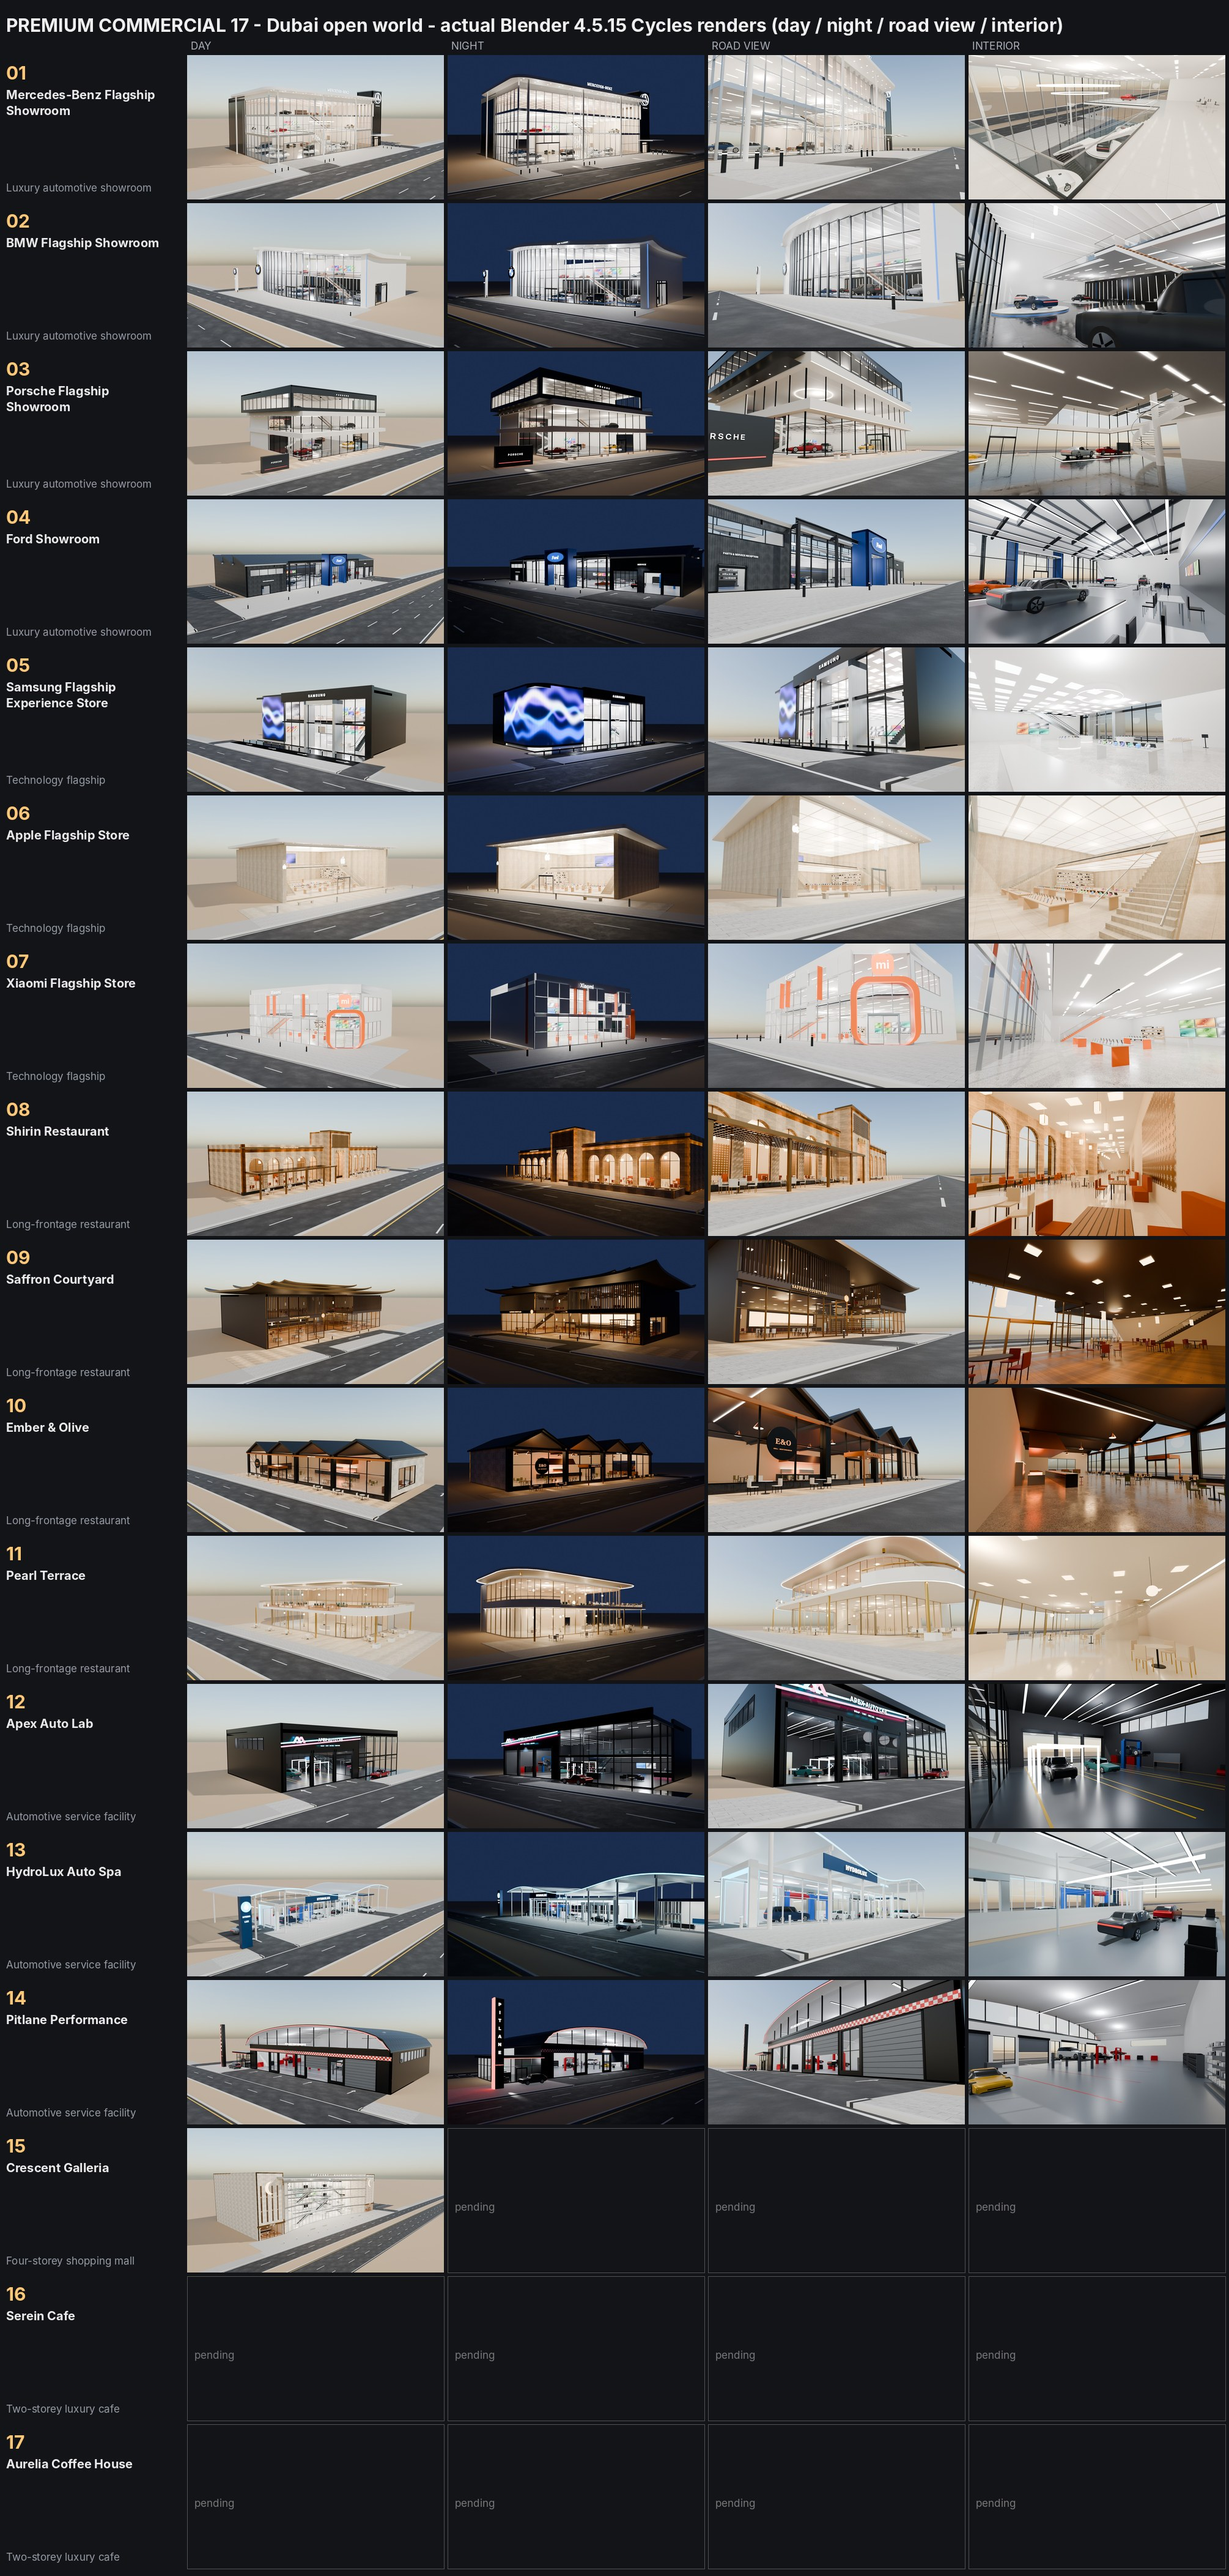
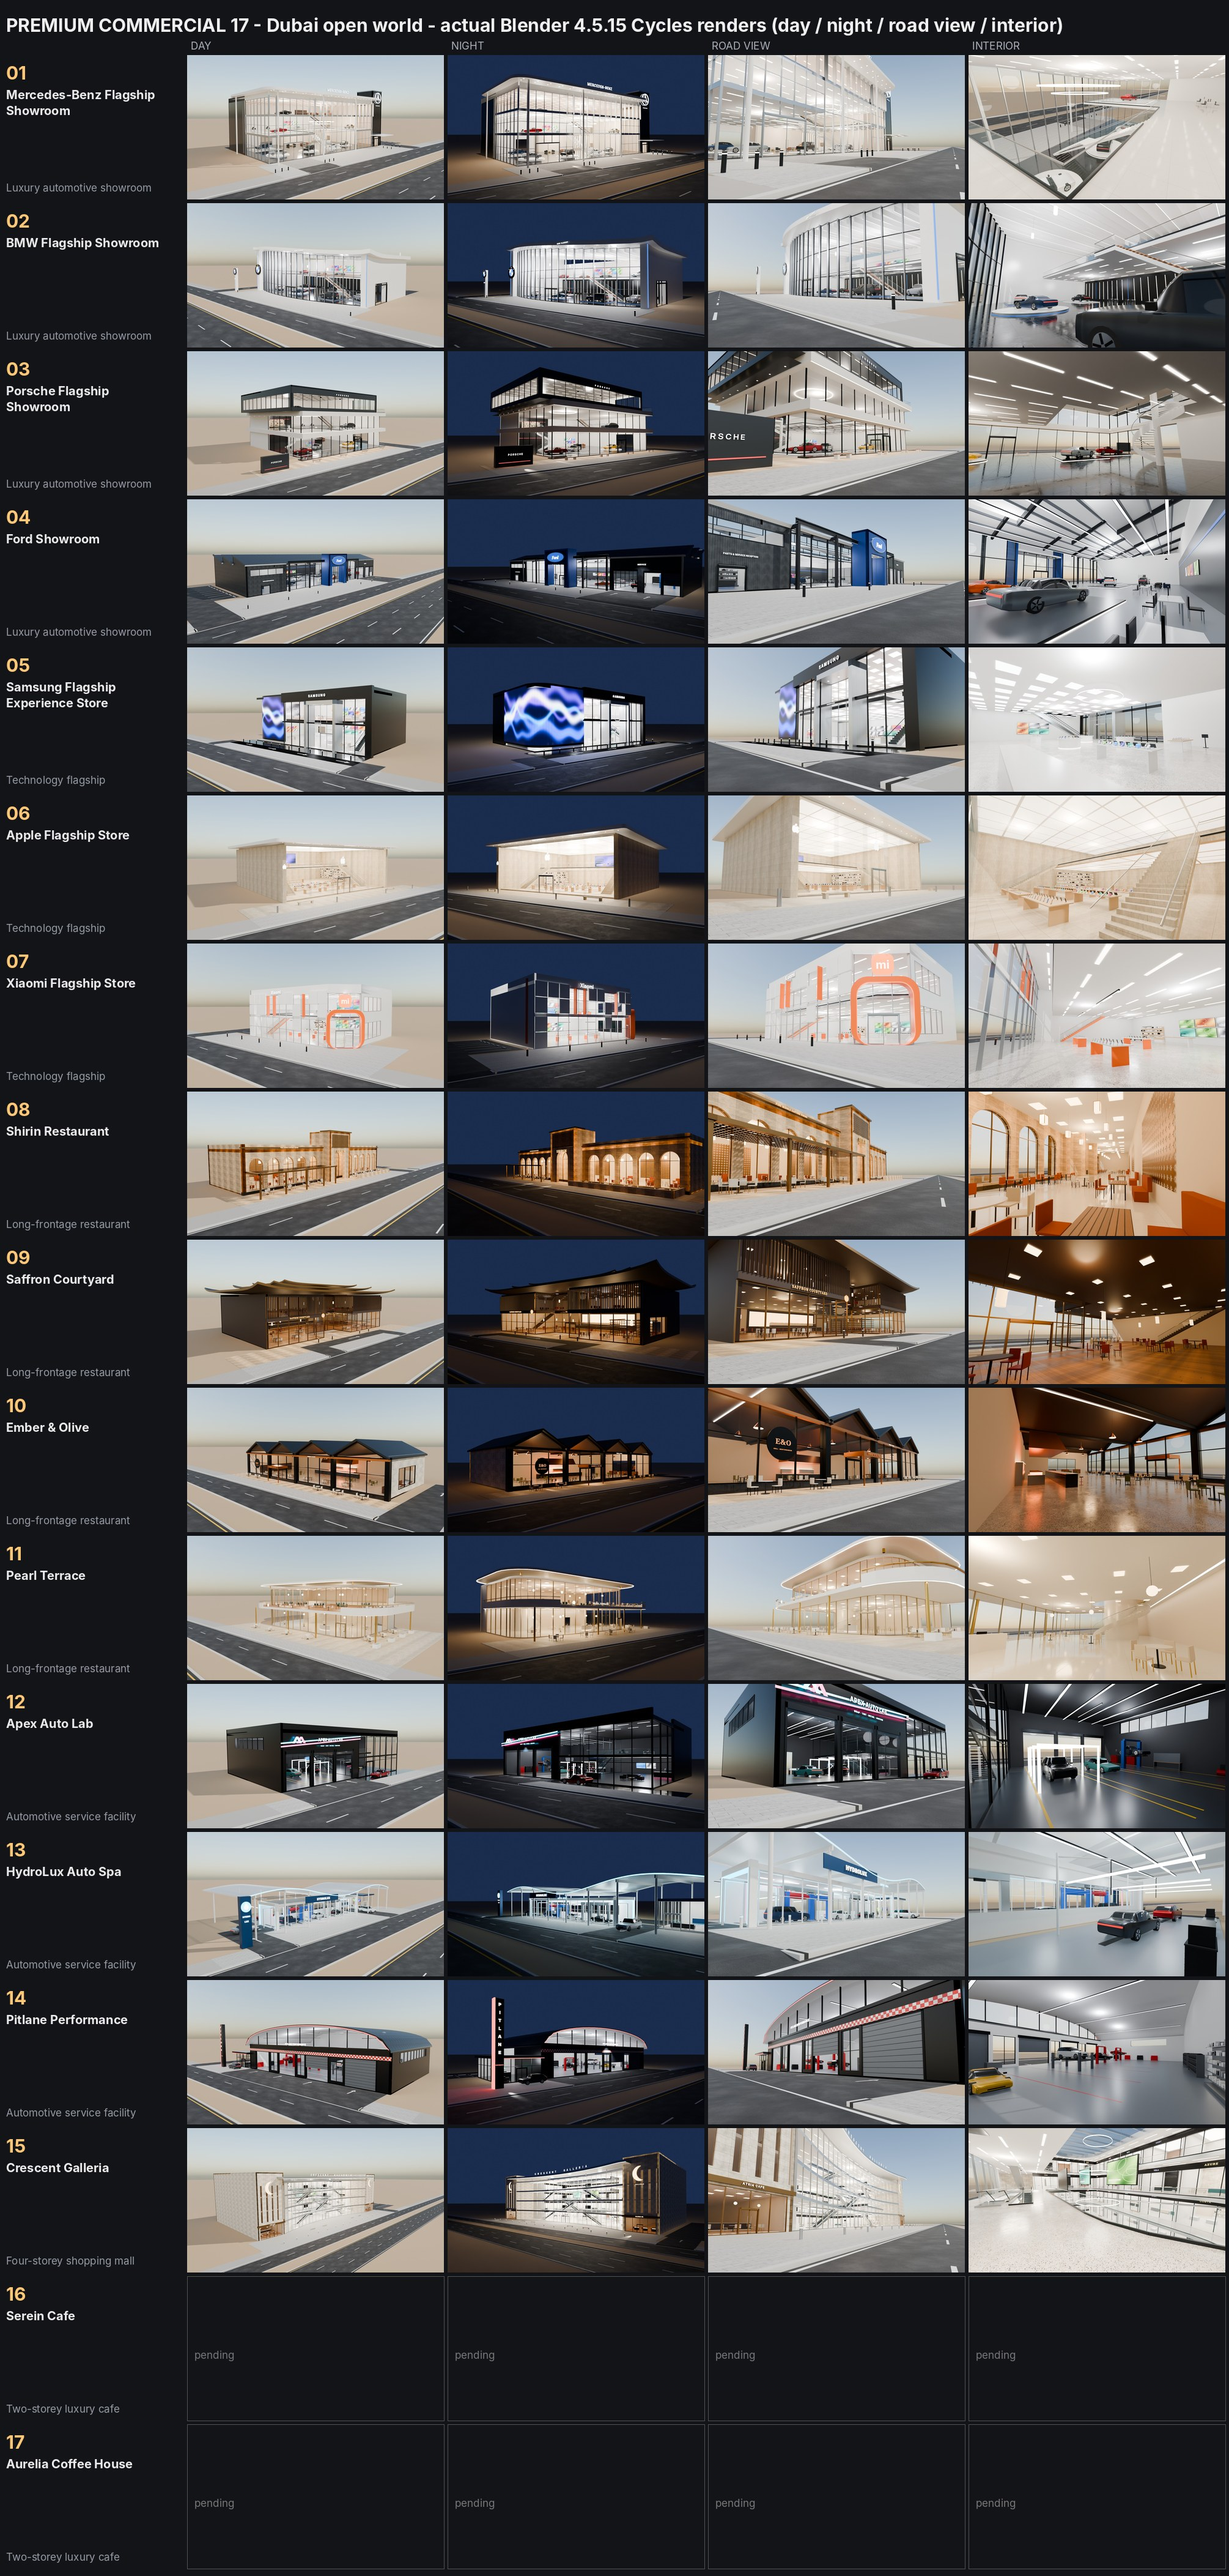
Premium Commercial 17 - 15_crescent_galleria validated and rendered (batch D)
Claude-Session: https://claude.ai/code/session_01SmYKsHWVuE7LRLWaF3pgwz

Changed region(s): [[0.3393, 0.809, 1.0, 0.9024]]

diff --git a/assets/roadside_stores/premium_commercial_17/PREMIUM_COMMERCIAL_17_GALLERY.html b/assets/roadside_stores/premium_commercial_17/PREMIUM_COMMERCIAL_17_GALLERY.html
@@ -82,4 +82,9 @@ works offline - keep this file next to the asset folders. Click any image for fu
 &middot; LOD0/1/2 18,555 / 7,491 / 1,471 tris &middot; 5 placeholder cars
 &middot; validated</p></div></header>
 <p class="concept">Massing: a 41 m wide racing-hangar with a BARREL-VAULT roof whose arched gable faces the road (eaves 7 m, crown 11.4 m). The lower front holds four big roller doors (two open, one half-open, one closed) separated by full-height glass observation panels; the arched lunette above is glazed so the lit workshop reads from the road.  A low glass service reception box sits on the left beside a tall black/red vertical sign blade.  Red/white chequer band at the doors. Inside: two 2-post lifts and a 4-post lift with raised cars, a car on the floor with the bonnet zone lit, engine stand, tyre machine + racks, tool cabinets, workbenches and long high-bay lights following the vault. Site: wide workshop apron straight off the service road; optional customer parking left of the reception.</p><div class="grid"><figure><a href="14_pitlane_performance/renders/pitlane_performance_day.jpg" target="_blank"><img loading="lazy" src="14_pitlane_performance/renders/pitlane_performance_day.jpg" alt="Pitlane Performance day"></a><figcaption>day</figcaption></figure><figure><a href="14_pitlane_performance/renders/pitlane_performance_night.jpg" target="_blank"><img loading="lazy" src="14_pitlane_performance/renders/pitlane_performance_night.jpg" alt="Pitlane Performance night"></a><figcaption>night</figcaption></figure><figure><a href="14_pitlane_performance/renders/pitlane_performance_road_view.jpg" target="_blank"><img loading="lazy" src="14_pitlane_performance/renders/pitlane_performance_road_view.jpg" alt="Pitlane Performance road_view"></a><figcaption>road view</figcaption></figure><figure><a href="14_pitlane_performance/renders/pitlane_performance_interior.jpg" target="_blank"><img loading="lazy" src="14_pitlane_performance/renders/pitlane_performance_interior.jpg" alt="Pitlane Performance interior"></a><figcaption>interior</figcaption></figure></div>
-<p class="meta">Parking: optional left customer parking, 6 bays (OPTIONAL_PARKING) &middot; Access: 40 m wide workshop apron straight off the service road to four roller doors; separate parking crossing</p></section><section class="card"><header><span class="num">15</span><div><h2>Crescent Galleria</h2><p class="cat">pending</p></div></header></section><section class="card"><header><span class="num">16</span><div><h2>Serein Cafe</h2><p class="cat">pending</p></div></header></section><section class="card"><header><span class="num">17</span><div><h2>Aurelia Coffee House</h2><p class="cat">pending</p></div></header></section></div></body></html>
+<p class="meta">Parking: optional left customer parking, 6 bays (OPTIONAL_PARKING) &middot; Access: 40 m wide workshop apron straight off the service road to four roller doors; separate parking crossing</p></section><section class="card" id="a15"><header><span class="num">15</span><div><h2>Crescent Galleria</h2>
+<p class="cat">E - Four-storey shopping mall &middot; 4 storey(s) &middot; 90.0 &times; 45.0 m, 25.5 m high
+&middot; LOD0/1/2 137,874 / 27,349 / 5,260 tris
+&middot; validated</p></div></header>
+<p class="concept">Massing: 90 m frontage.  A 66 m CONCAVE (crescent) four-storey glass curtain wall with silver floor spandrels and fins is held between two taller stone &#x27;bookend&#x27; towers that carry their own street-facing shopfronts (separate commercial frontage sections).  A crescent-shaped canopy crowns the glass with the name; a long glass entrance canopy marks the central doors; a glazed skylight covers the atrium. Interior (real 3D): four floors (0.15 / 5.6 / 11.0 / 16.4 m), a stadium-shaped central atrium through all levels with glass-railed galleries, SIX escalators placed in the glazed front zone (zig-zag GF-&gt;L1 at the sides, L1-&gt;L2 in the centre, L2-&gt;L3 at the sides) so circulation and floor separation read from the road, 56 shop units (14 per floor) with glass shopfronts, illuminated sign bands and display fixtures, kiosks, benches, hanging LED screens, atrium pool. Site: entrance plaza on the frontage; OPTIONAL surface car park on the right (separate collection, own crossing).</p><div class="grid"><figure><a href="15_crescent_galleria/renders/crescent_galleria_day.jpg" target="_blank"><img loading="lazy" src="15_crescent_galleria/renders/crescent_galleria_day.jpg" alt="Crescent Galleria day"></a><figcaption>day</figcaption></figure><figure><a href="15_crescent_galleria/renders/crescent_galleria_night.jpg" target="_blank"><img loading="lazy" src="15_crescent_galleria/renders/crescent_galleria_night.jpg" alt="Crescent Galleria night"></a><figcaption>night</figcaption></figure><figure><a href="15_crescent_galleria/renders/crescent_galleria_road_view.jpg" target="_blank"><img loading="lazy" src="15_crescent_galleria/renders/crescent_galleria_road_view.jpg" alt="Crescent Galleria road_view"></a><figcaption>road view</figcaption></figure><figure><a href="15_crescent_galleria/renders/crescent_galleria_interior.jpg" target="_blank"><img loading="lazy" src="15_crescent_galleria/renders/crescent_galleria_interior.jpg" alt="Crescent Galleria interior"></a><figcaption>interior</figcaption></figure></div>
+<p class="meta">Parking: optional right-side surface car park, 32 bays (OPTIONAL_PARKING) &middot; Access: pedestrian entrance plaza on the frontage; separate right crossing to the optional car park</p></section><section class="card"><header><span class="num">16</span><div><h2>Serein Cafe</h2><p class="cat">pending</p></div></header></section><section class="card"><header><span class="num">17</span><div><h2>Aurelia Coffee House</h2><p class="cat">pending</p></div></header></section></div></body></html>

diff --git a/assets/roadside_stores/premium_commercial_17/BUILD_REPORT.md b/assets/roadside_stores/premium_commercial_17/BUILD_REPORT.md
@@ -1,16 +1,16 @@
 # Premium Commercial 17 - build report
 
-Generated 2026-11-03T21:40:26Z from the files on disk (Blender 4.5.15 LTS via the `bpy` module, Cycles CPU + OpenImageDenoise, headless Linux cloud container).
+Generated 2026-11-03T21:49:15Z from the files on disk (Blender 4.5.15 LTS via the `bpy` module, Cycles CPU + OpenImageDenoise, headless Linux cloud container).
 
 ## Checkpoint
 
 - Batch A: 01 Mercedes-Benz Flagship Showroom (complete), 02 BMW Flagship Showroom (complete), 03 Porsche Flagship Showroom (complete), 04 Ford Showroom (complete)
 - Batch B: 05 Samsung Flagship Experience Store (complete), 06 Apple Flagship Store (complete), 07 Xiaomi Flagship Store (complete), 08 Shirin Restaurant (complete)
 - Batch C: 09 Saffron Courtyard (complete), 10 Ember & Olive (complete), 11 Pearl Terrace (complete), 12 Apex Auto Lab (complete), 13 HydroLux Auto Spa (complete)
-- Batch D: 14 Pitlane Performance (complete), 15 Crescent Galleria (remaining), 16 Serein Cafe (remaining), 17 Aurelia Coffee House (remaining)
+- Batch D: 14 Pitlane Performance (complete), 15 Crescent Galleria (complete), 16 Serein Cafe (remaining), 17 Aurelia Coffee House (remaining)
 
-**14 / 17 assets complete.** Remaining: Crescent Galleria, Serein Cafe, Aurelia Coffee House
-Last successful asset: Pitlane Performance
+**15 / 17 assets complete.** Remaining: Serein Cafe, Aurelia Coffee House
+Last successful asset: Crescent Galleria
 
 ## Summary table (triangles read from the exported GLBs)
 
@@ -30,11 +30,11 @@ Last successful asset: Pitlane Performance
 | 12 | Apex Auto Lab | 1 (+ lounge office mezzanine) | 32.0 x 22.0 x 9.4 | 16,274 | 6,414 | 911 | 4 (8,788) | 5.64 | 64 | 22 | 5/1 | PASS |
 | 13 | HydroLux Auto Spa | 1 | 50.0 x 19.2 x 8.9 | 22,232 | 4,922 | 1,604 | 7 (15,484) | 6.05 | 57 | 17 | 6/3 | PASS |
 | 14 | Pitlane Performance | 1 | 50.5 x 27.2 x 11.75 | 18,555 | 7,491 | 1,471 | 5 (10,992) | 5.55 | 52 | 22 | 5/2 | PASS |
-| 15 | Crescent Galleria | - | - | - | - | - | - | - | - | - | - | pending |
+| 15 | Crescent Galleria | 4 | 90.0 x 45.0 x 25.5 | 137,874 | 27,349 | 5,260 | 0 (0) | 15.71 | 60 | 30 | 13/3 | PASS |
 | 16 | Serein Cafe | - | - | - | - | - | - | - | - | - | - | pending |
 | 17 | Aurelia Coffee House | - | - | - | - | - | - | - | - | - | - | pending |
 
-Totals over complete assets: LOD0 377,066 tris, LOD1 104,482, LOD2 17,923, placeholder cars 96,864; 44 placeholder cars; 56 renders + contact sheet + offline gallery.
+Totals over complete assets: LOD0 514,940 tris, LOD1 131,831, LOD2 23,183, placeholder cars 96,864; 44 placeholder cars; 60 renders + contact sheet + offline gallery.
 
 ## Architectural diversity (why these are not one generator with different colours)
 
@@ -90,6 +90,7 @@ Every asset has its own build script (`_tools/build_NN_*.py`) that designs its o
 - 12 Apex Auto Lab: PASS; road view: cars readable 3/4, probes 0/4; day view: cars 3/4, probes 1/4
 - 13 HydroLux Auto Spa: PASS; road view: cars readable 4/7, probes 0/3; day view: cars 5/7, probes 2/3
 - 14 Pitlane Performance: PASS; road view: cars readable 3/5, probes 0/4; day view: cars 3/5, probes 1/4
+- 15 Crescent Galleria: PASS; road view: cars readable 0/0, probes 4/8; day view: cars 0/0, probes 7/8
 
 ## LOD transition recommendations
 
@@ -114,6 +115,7 @@ Every asset has its own build script (`_tools/build_NN_*.py`) that designs its o
 - Branch: `claude/dubai-premium-commercial-17` (based on `claude/dubai-17-store-assets`).
 - Recent commits:
 ```
+0aaa813 Premium Commercial 17 - Saffron Courtyard and Pearl Terrace interiors re-shot to show the stair to the upper floor
 79c2adc Premium Commercial 17 - 14_pitlane_performance validated and rendered (batch D)
 d9c064e Premium Commercial 17 - in-progress render output
 fd22599 Premium Commercial 17 - Saffron/Pearl interior camera updates (re-shoot in progress), Batch D progress
@@ -121,5 +123,4 @@ dc2dabc Premium Commercial 17 - 13_hydrolux_auto_spa validated and rendered (bat
 cfddf94 Premium Commercial 17 - 12_apex_auto_lab validated and rendered (batch C)
 322d38f Premium Commercial 17 - 11_pearl_terrace validated and rendered (batch C)
 3d8bc05 Premium Commercial 17 - 10_ember_and_olive validated and rendered (batch C)
-714d3e0 Premium Commercial 17 - 09_saffron_courtyard validated and rendered (batch C)
 ```

diff --git a/assets/roadside_stores/premium_commercial_17/15_crescent_galleria/README.md b/assets/roadside_stores/premium_commercial_17/15_crescent_galleria/README.md
@@ -1,6 +1,6 @@
 # 15 - Crescent Galleria
 
-*E - Four-storey shopping mall* - status: **incomplete**
+*E - Four-storey shopping mall* - status: **complete**
 
 Massing: 90 m frontage.  A 66 m CONCAVE (crescent) four-storey glass curtain wall with silver floor spandrels and fins is held between two taller stone 'bookend' towers that carry their own street-facing shopfronts (separate commercial frontage sections).  A crescent-shaped canopy crowns the glass with the name; a long glass entrance canopy marks the central doors; a glazed skylight covers the atrium. Interior (real 3D): four floors (0.15 / 5.6 / 11.0 / 16.4 m), a stadium-shaped central atrium through all levels with glass-railed galleries, SIX escalators placed in the glazed front zone (zig-zag GF->L1 at the sides, L1->L2 in the centre, L2->L3 at the sides) so circulation and floor separation read from the road, 56 shop units (14 per floor) with glass shopfronts, illuminated sign bands and display fixtures, kiosks, benches, hanging LED screens, atrium pool. Site: entrance plaza on the frontage; OPTIONAL surface car park on the right (separate collection, own crossing).
 
@@ -58,6 +58,8 @@ P15_<Title> (root, origin = centre of the plot frontage line, ground; front = -Y
 - Degenerate faces: 36; inverted faces in watertight pieces: 0; vegetation: none
 - Glass materials: {'PC_Glass': {'alpha': 0.16, 'blend': 'BLEND', 'double_sided': True}, 'PC_GlassClear': {'alpha': 0.11, 'blend': 'BLEND', 'double_sided': True}, 'PC_GlassRail': {'alpha': 0.14, 'blend': 'BLEND', 'double_sided': True}}
 - GLB re-import into a clean scene: {'mesh_objects': 196, 'triangles': 172695, 'glb_triangles': 172695, 'images_loaded': 30, 'lights': 16, 'lod0_size_yup_converted': [90.4, 49.01, 25.9]}
+- Ray-traced visibility from the road_view camera: cars readable 0/0 {}; interior probes reached 4/8 {'Level0_front_gallery': True, 'Level1_front_gallery': False, 'Level2_front_gallery': False, 'Level3_front_gallery': False, 'Level0_escalator': True, 'Level1_escalator': True, 'Level2_escalator': False, 'Atrium_pool': True}
+- Ray-traced visibility from the day camera: cars readable 0/0 {}; interior probes reached 7/8 {'Level0_front_gallery': True, 'Level1_front_gallery': True, 'Level2_front_gallery': True, 'Level3_front_gallery': True, 'Level0_escalator': True, 'Level1_escalator': False, 'Level2_escalator': True, 'Atrium_pool': True}
 
 Brand note: Original fictional mall; shop names (MAISON, NOVA, LUXE ...) are invented.
 

diff --git a/assets/roadside_stores/premium_commercial_17/16_serein_cafe/README.md b/assets/roadside_stores/premium_commercial_17/16_serein_cafe/README.md
@@ -17,13 +17,13 @@ Massing: a slender 16 x 14 m glass pavilion in a fine black-steel frame (exposed
 |---|---|
 | Storeys | 2 (floor levels [0.15, 4.6] m, roof 8.7) |
 | Frontage x depth x height | 16.0 x 14.0 x 8.979999999999999 m |
-| LOD0 bounds (Blender) | - m |
+| LOD0 bounds (Blender) | [19.67, 17.84, 9.28] m |
 | Setback from plot frontage | 4.0 m |
 | Parking | none (pavement terrace) |
 | Vehicle access | pedestrian only |
 | Glass | full-height PC_GlassClear on both floors in a black steel frame |
-| Lights | None |
-| Collision boxes | None |
+| Lights | {'INTERIOR_LIGHTING': 3, 'EXTERIOR_LIGHTING': 1} |
+| Collision boxes | 3 |
 
 ## Files
 
@@ -39,9 +39,9 @@ Massing: a slender 16 x 14 m glass pavilion in a fine black-steel frame (exposed
 
 | LOD0 | LOD1 | LOD2 | Placeholder cars | Site pieces | Collision |
 |---|---|---|---|---|---|
-| None | None | None | 0 | 0 | None |
+| 21702 | 5311 | 702 | 0 | 2812 | 36 |
 
-LOD visibility ranges (glTF extras, applied by `../premium_lod_post_import.gd`): {}; placeholder cars 0-340 m.
+LOD visibility ranges (glTF extras, applied by `../premium_lod_post_import.gd`): {'LOD0': [0.0, 90.0], 'LOD1': [90.0, 260.0], 'LOD2': [260.0, 1600.0]}; placeholder cars 0-340 m.
 
 ## Hierarchy
 
@@ -54,10 +54,10 @@ P16_<Title> (root, origin = centre of the plot frontage line, ground; front = -Y
 
 ## Validation
 
-- Result: **FAIL**; issues: None; warnings: None
-- Degenerate faces: None; inverted faces in watertight pieces: None; vegetation: none
-- Glass materials: None
-- GLB re-import into a clean scene: None
+- Result: **PASS**; issues: []; warnings: []
+- Degenerate faces: 3; inverted faces in watertight pieces: 0; vegetation: none
+- Glass materials: {'PC_GlassBlue': {'alpha': 0.3, 'blend': 'BLEND', 'double_sided': True}, 'PC_GlassClear': {'alpha': 0.11, 'blend': 'BLEND', 'double_sided': True}, 'PC_GlassRail': {'alpha': 0.14, 'blend': 'BLEND', 'double_sided': True}, 'PC_GlassSatin': {'alpha': 0.55, 'blend': 'BLEND', 'double_sided': True}}
+- GLB re-import into a clean scene: {'mesh_objects': 88, 'triangles': 30563, 'glb_triangles': 30563, 'images_loaded': 14, 'lights': 4, 'lod0_size_yup_converted': [19.67, 17.84, 9.28]}
 
 Brand note: Original fictional brand.
 
